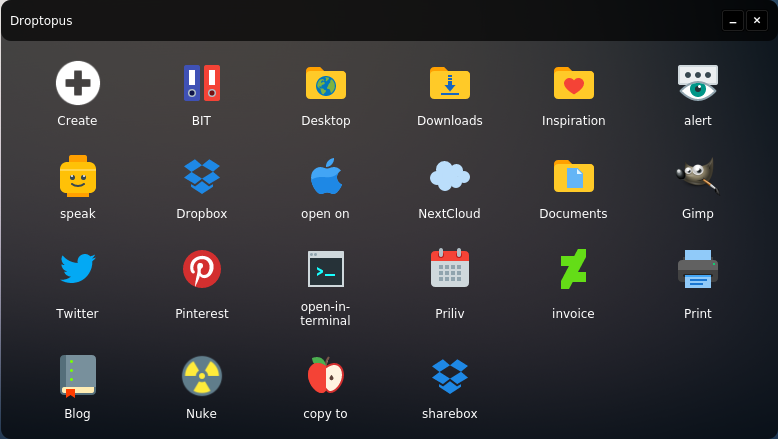
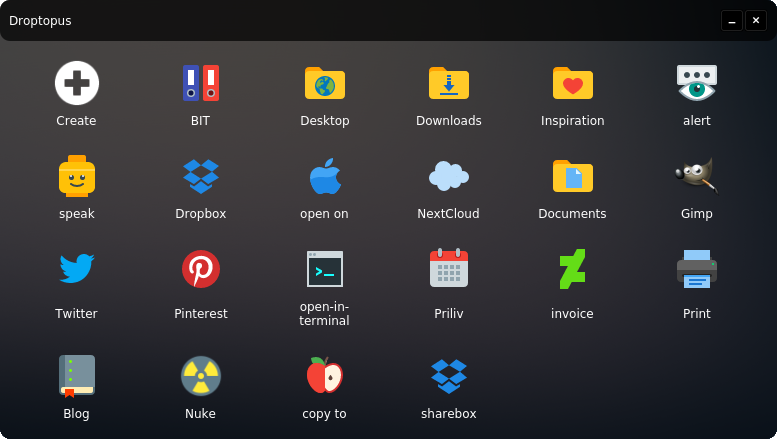
Make images transparent

diff --git a/README.md b/README.md
@@ -8,9 +8,9 @@
 
 Droptopus allows you create visual drop targets for files, links, and text, allowing you to process the dragged object via script or copy it to a folder.
 
-<img src="https://raw.githubusercontent.com/ArtBIT/Droptopus/master/images/droptopus-collapsed.png?v=1" width="auto" height="100" />
-<img src="https://raw.githubusercontent.com/ArtBIT/Droptopus/master/images/droptopus-expanded.png?v=1" width="auto" height="100" />
-<img src="https://raw.githubusercontent.com/ArtBIT/Droptopus/master/images/droptopus-right-click.png?v=1" width="auto" height="100" />
+<img src="https://raw.githubusercontent.com/ArtBIT/Droptopus/master/images/droptopus-collapsed.png?v=2" width="auto" height="100" />
+<img src="https://raw.githubusercontent.com/ArtBIT/Droptopus/master/images/droptopus-expanded.png?v=2" width="auto" height="100" />
+<img src="https://raw.githubusercontent.com/ArtBIT/Droptopus/master/images/droptopus-right-click.png?v=2" width="auto" height="100" />
 
 
 # Dependencies 
